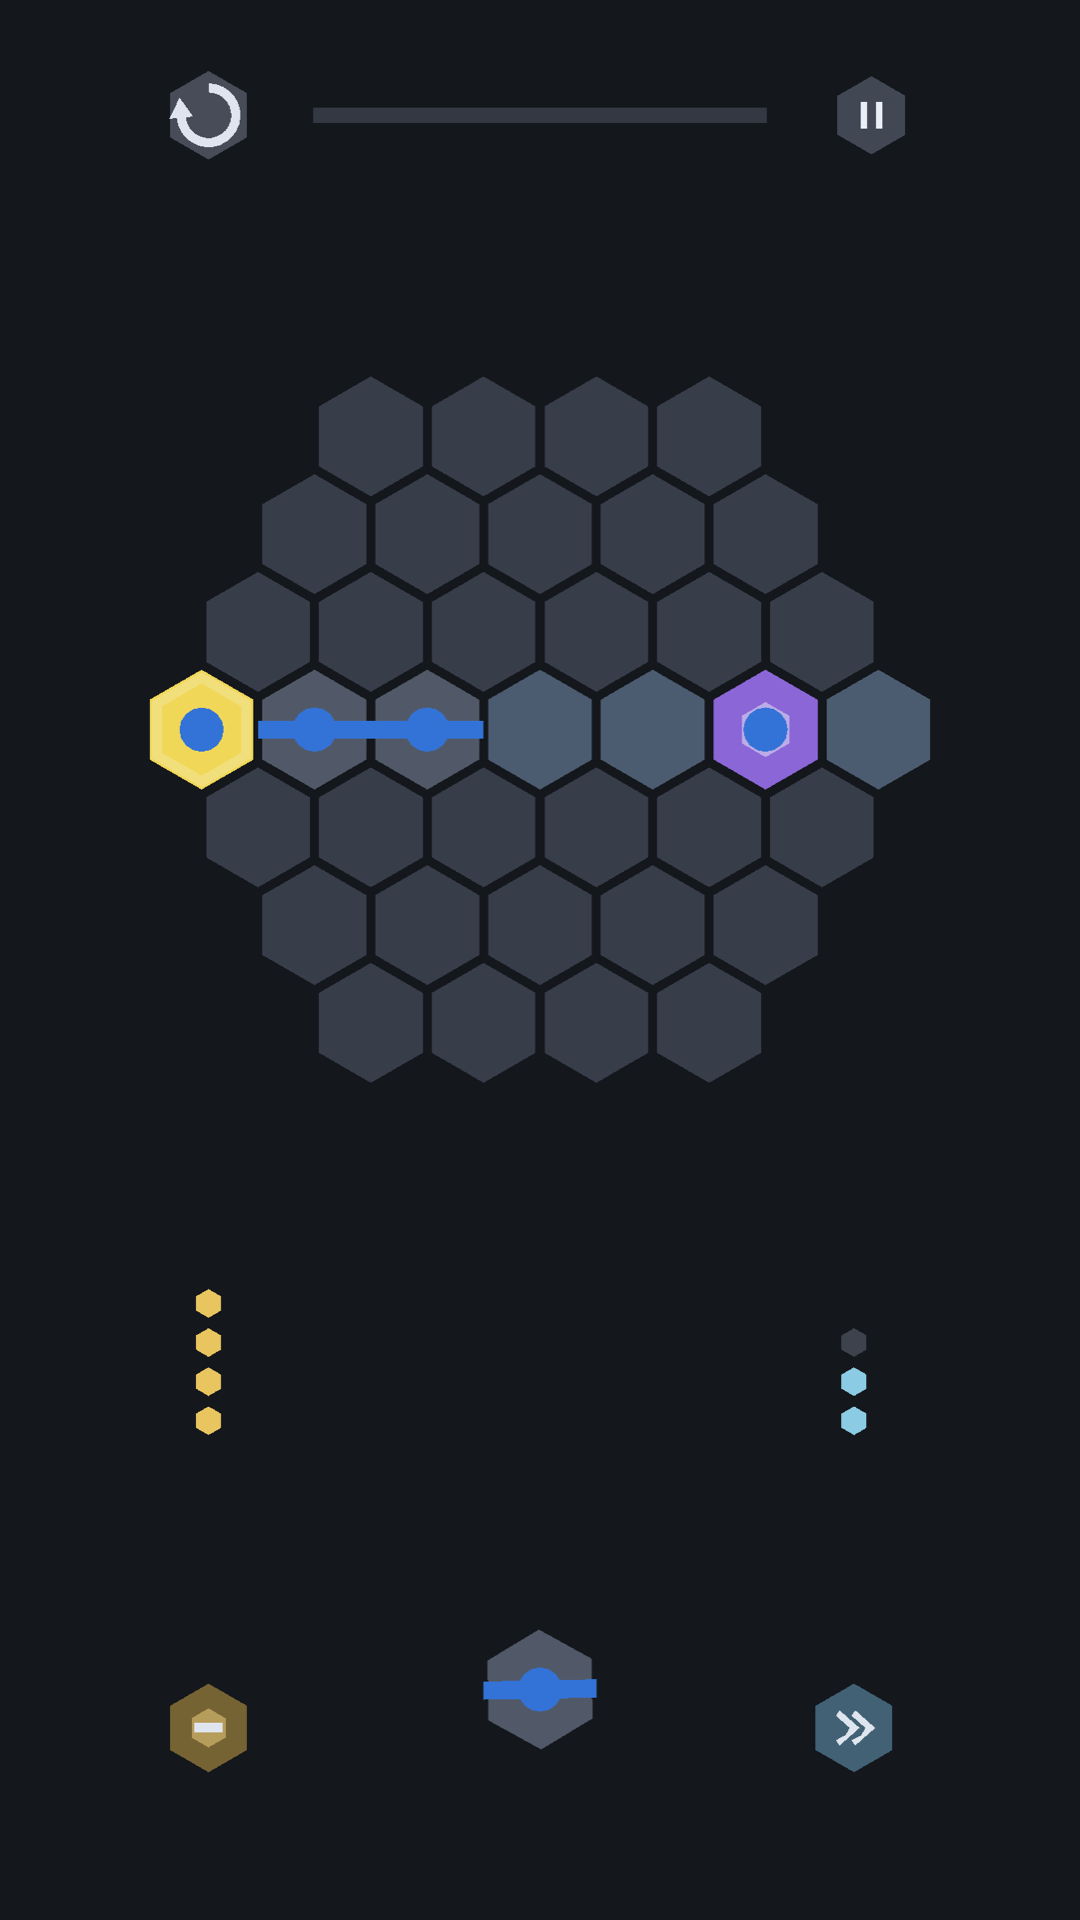
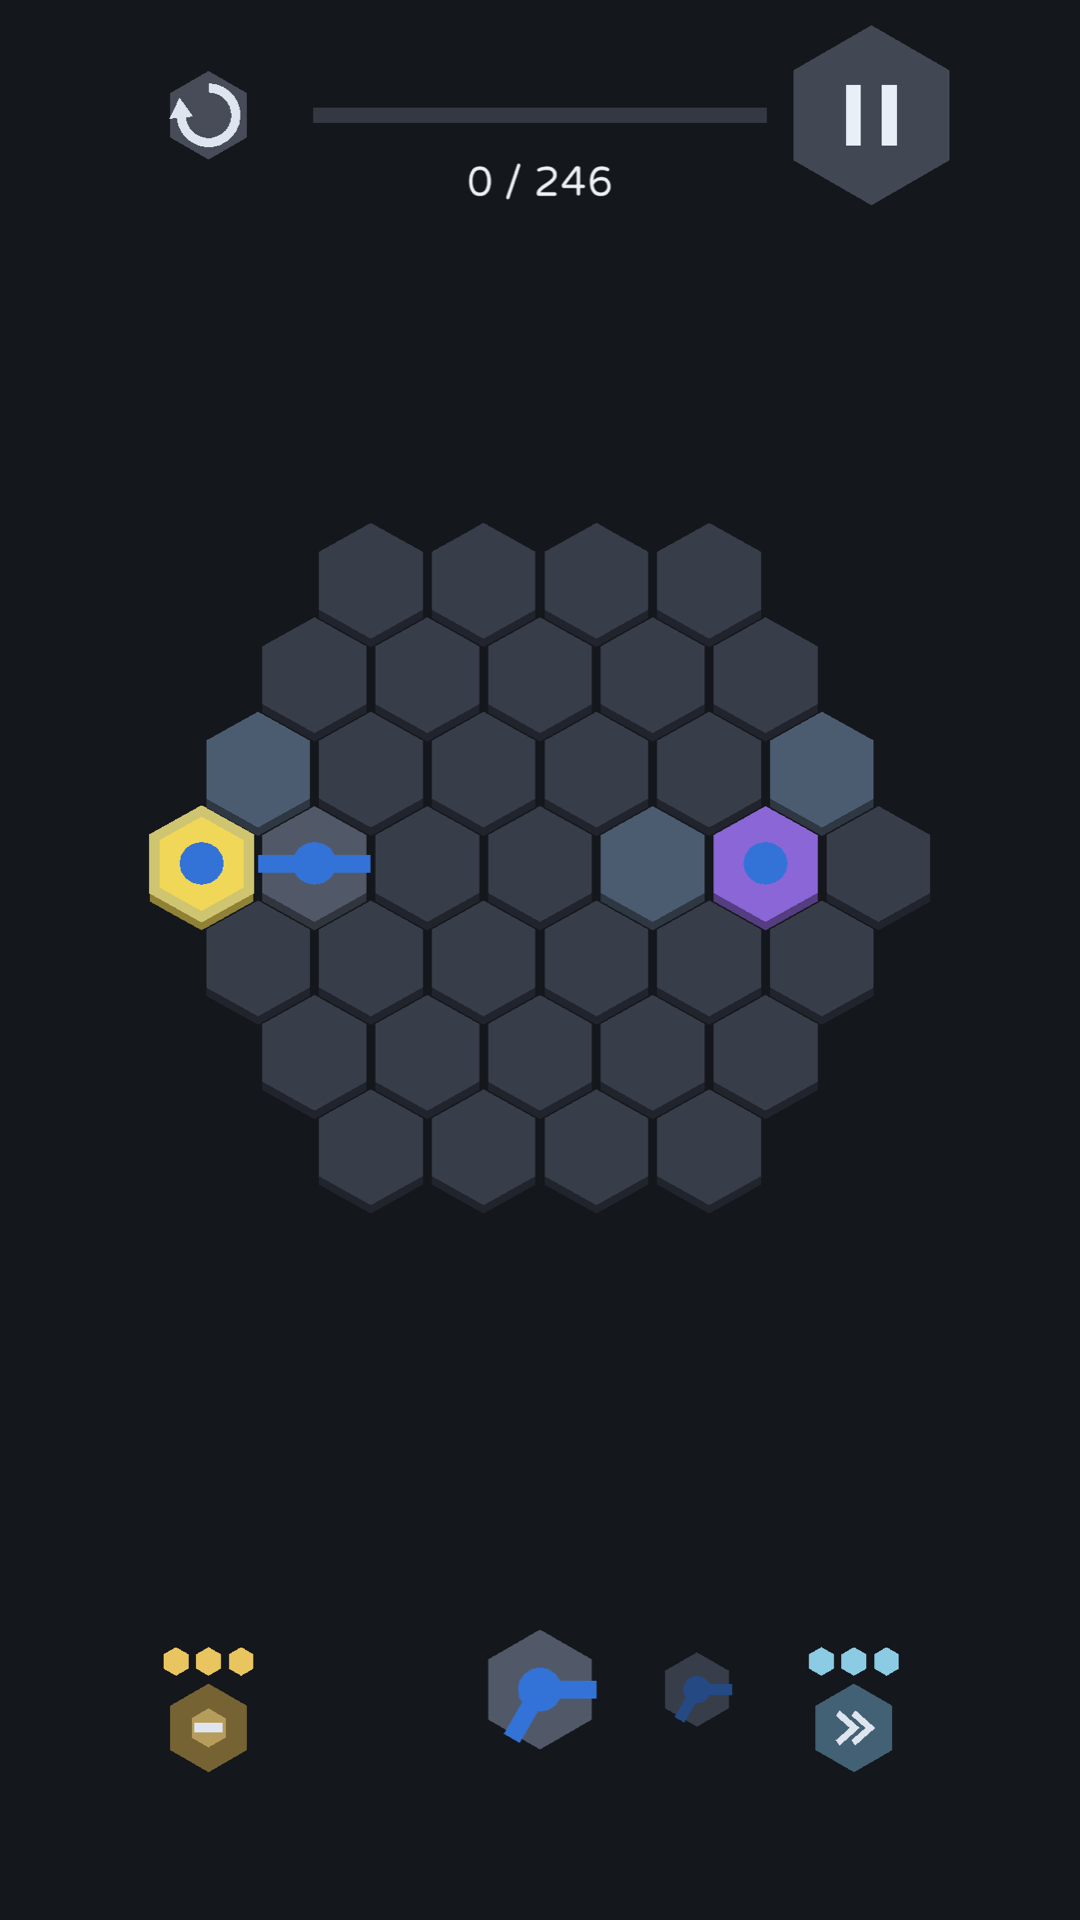
docs: retake the store screenshots on the leaning board (#126)
The four committed shots were taken before the board leaned, before it had a font, and
before it said anything about what a route pays. They advertised a game that no longer
exists.

Retaken from a watermark-free build: the score under the bar, the next tile beside the
tray, the pip rows in the drawer, blocks with visible sides, a payout floating at the hub
it was earned at, and the marks that say a board continues past the screen.

The fourth shot changes subject. It used to be an endless round, chosen because it was the
quickest way to get three resources onto one board; biome two does it better, because it is
authored, it shows the panning a large board needs, and an endless round deep enough to
carry three kinds takes several clears to reach.

Cropped, scaled and padded by the recipe already in the listing, so all four are 1080x1920.

diff --git a/docs/store/listing.md b/docs/store/listing.md
@@ -102,9 +102,13 @@ Four, committed under `docs/store/screenshots/`, in upload order:
 | File | What it shows |
 |---|---|
 | `1-building-a-route.png` | a route under construction, the next tile in hand, legal cells lit |
-| `2-route-complete.png` | the route closed, the quota bar full, and the one control a finished board offers |
-| `3-level-list.png` | twenty levels, each drawn as its own board, cleared ones in green |
-| `4-endless-three-networks.png` | an endless round with water, wind and crystal at once |
+| `2-route-complete.png` | the route closed, its payout floating at the hub, the quota met |
+| `3-level-list.png` | twenty-one levels, each drawn as its own board, cleared ones in green |
+| `4-three-networks.png` | the biome-two valley: three resource pairs, and the marks saying the board continues past the screen |
+
+The fourth used to be an endless round, chosen because it was the quickest way to get three resources
+on one board. Biome two does it better: it is authored, it shows the panning that makes a large board
+work, and an endless round deep enough to carry three kinds takes several clears to reach.
 
 They are committed rather than regenerated, because unlike the icon and the feature graphic they come
 from a device session rather than from a command.
